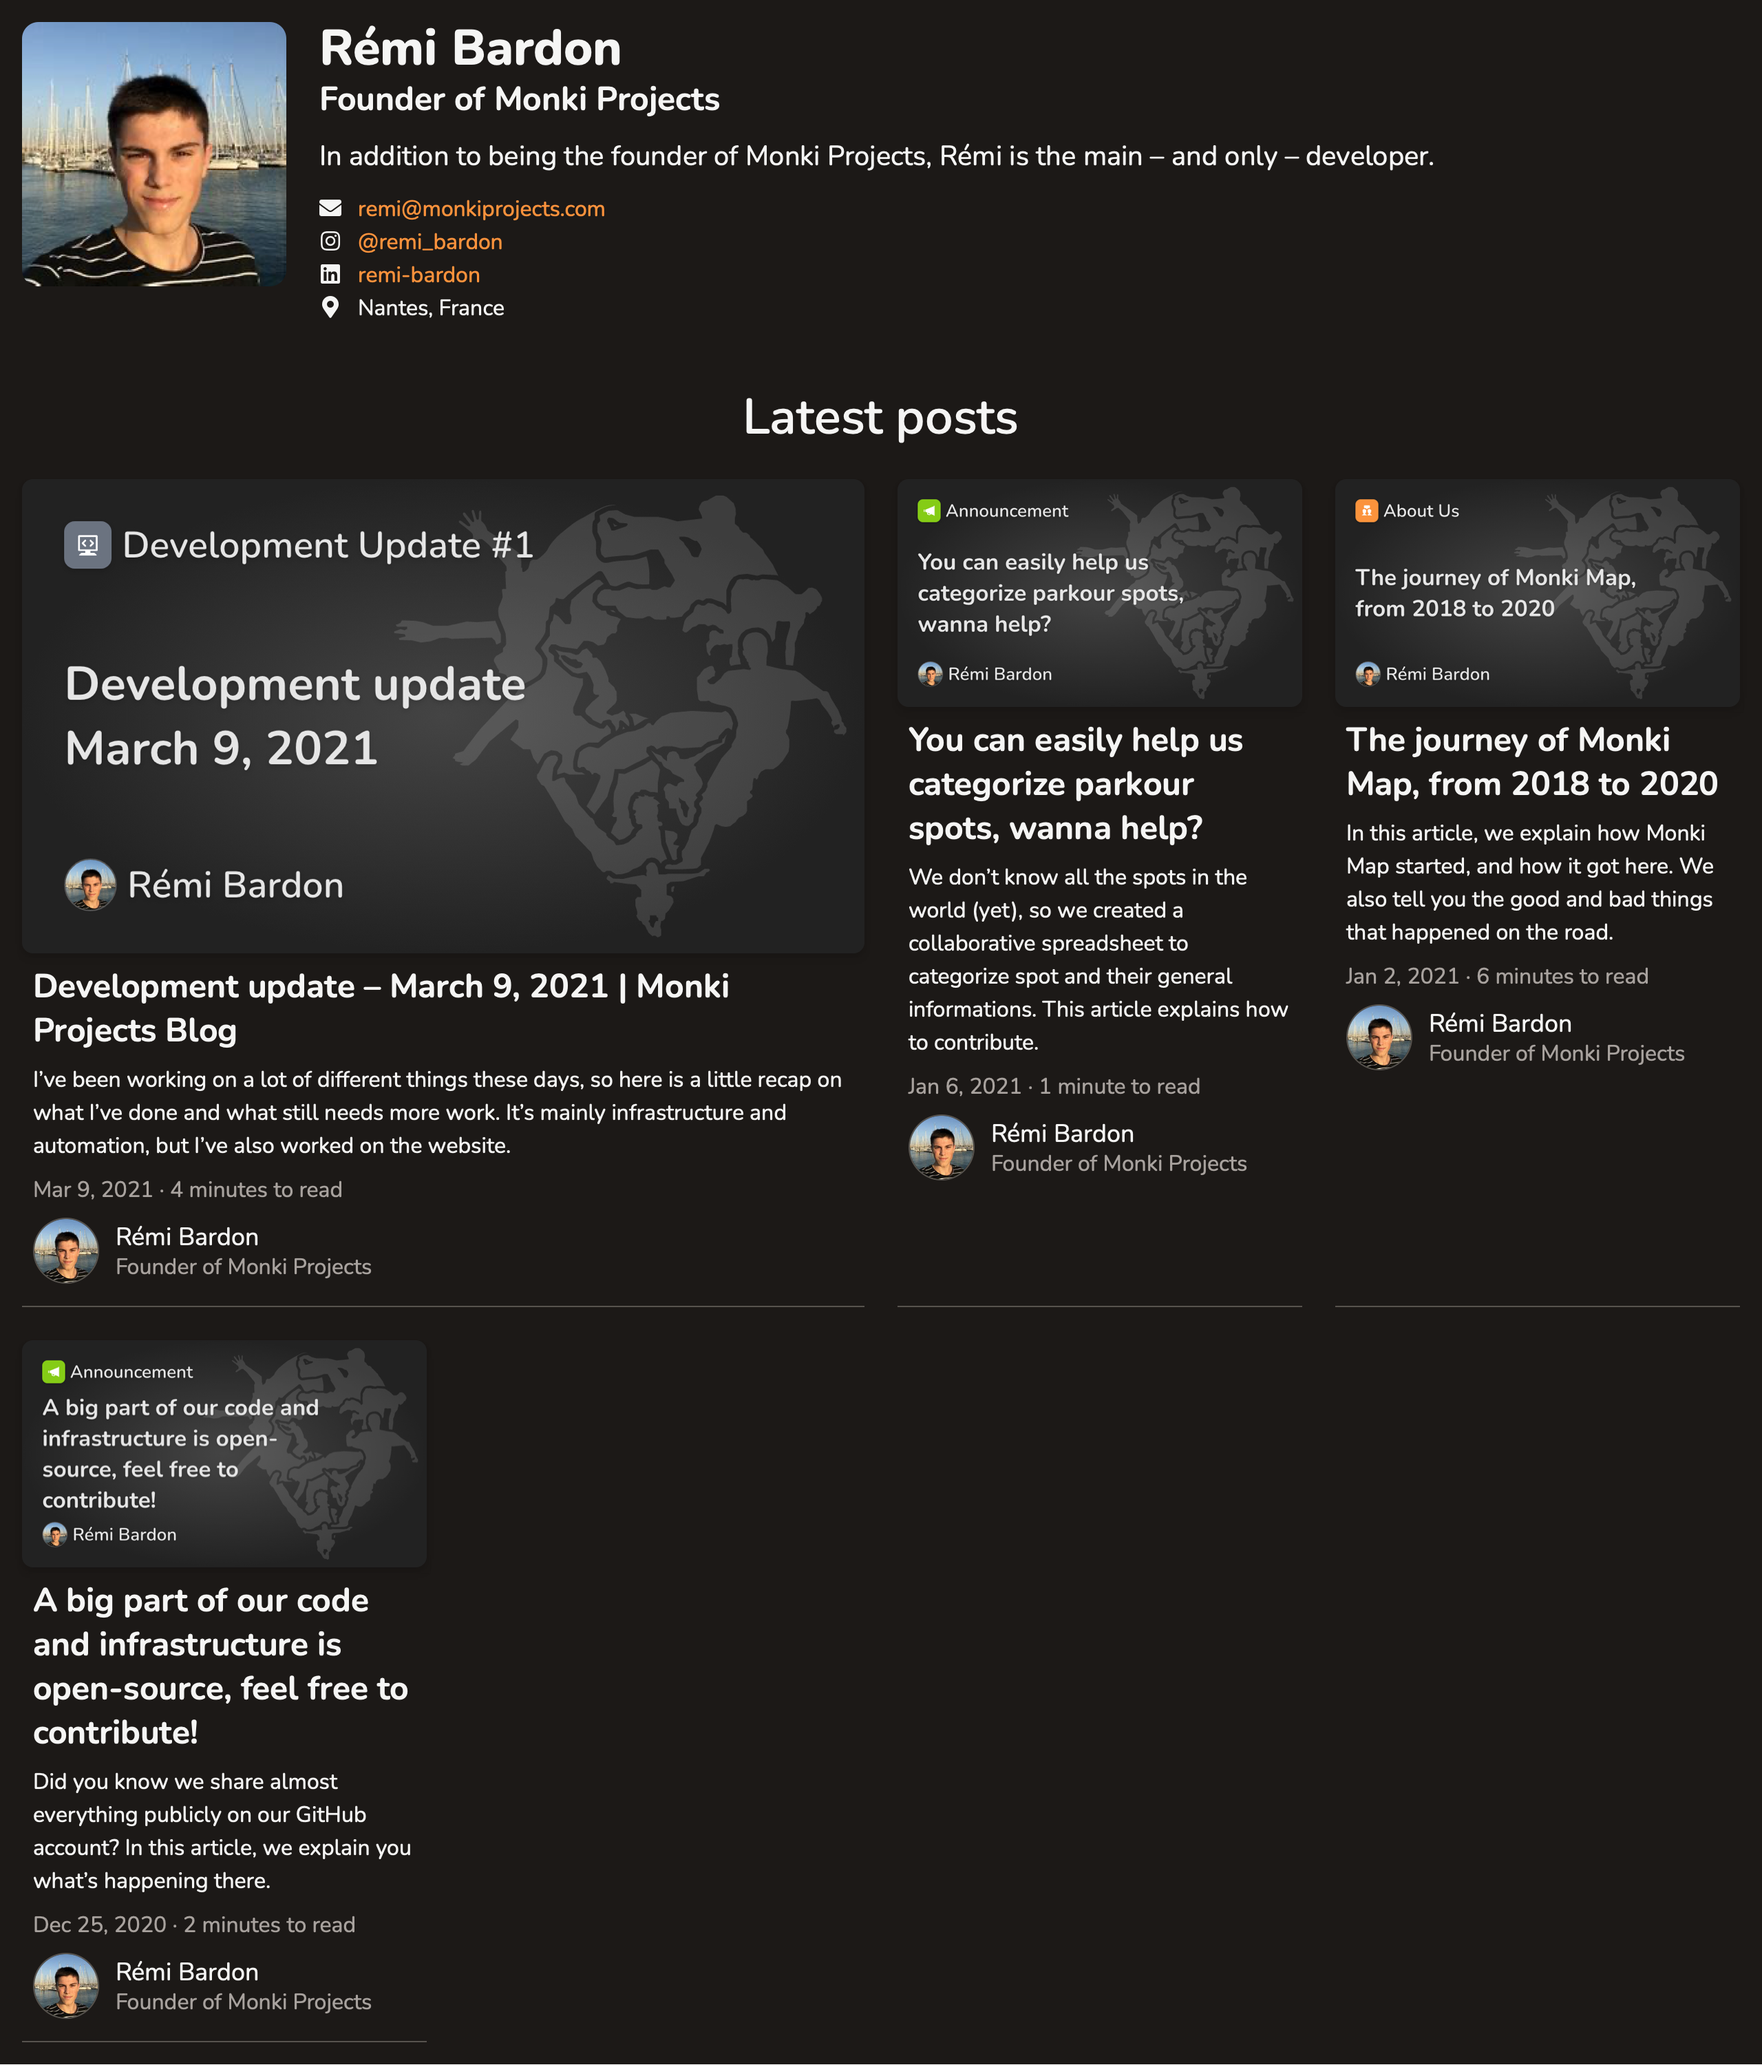
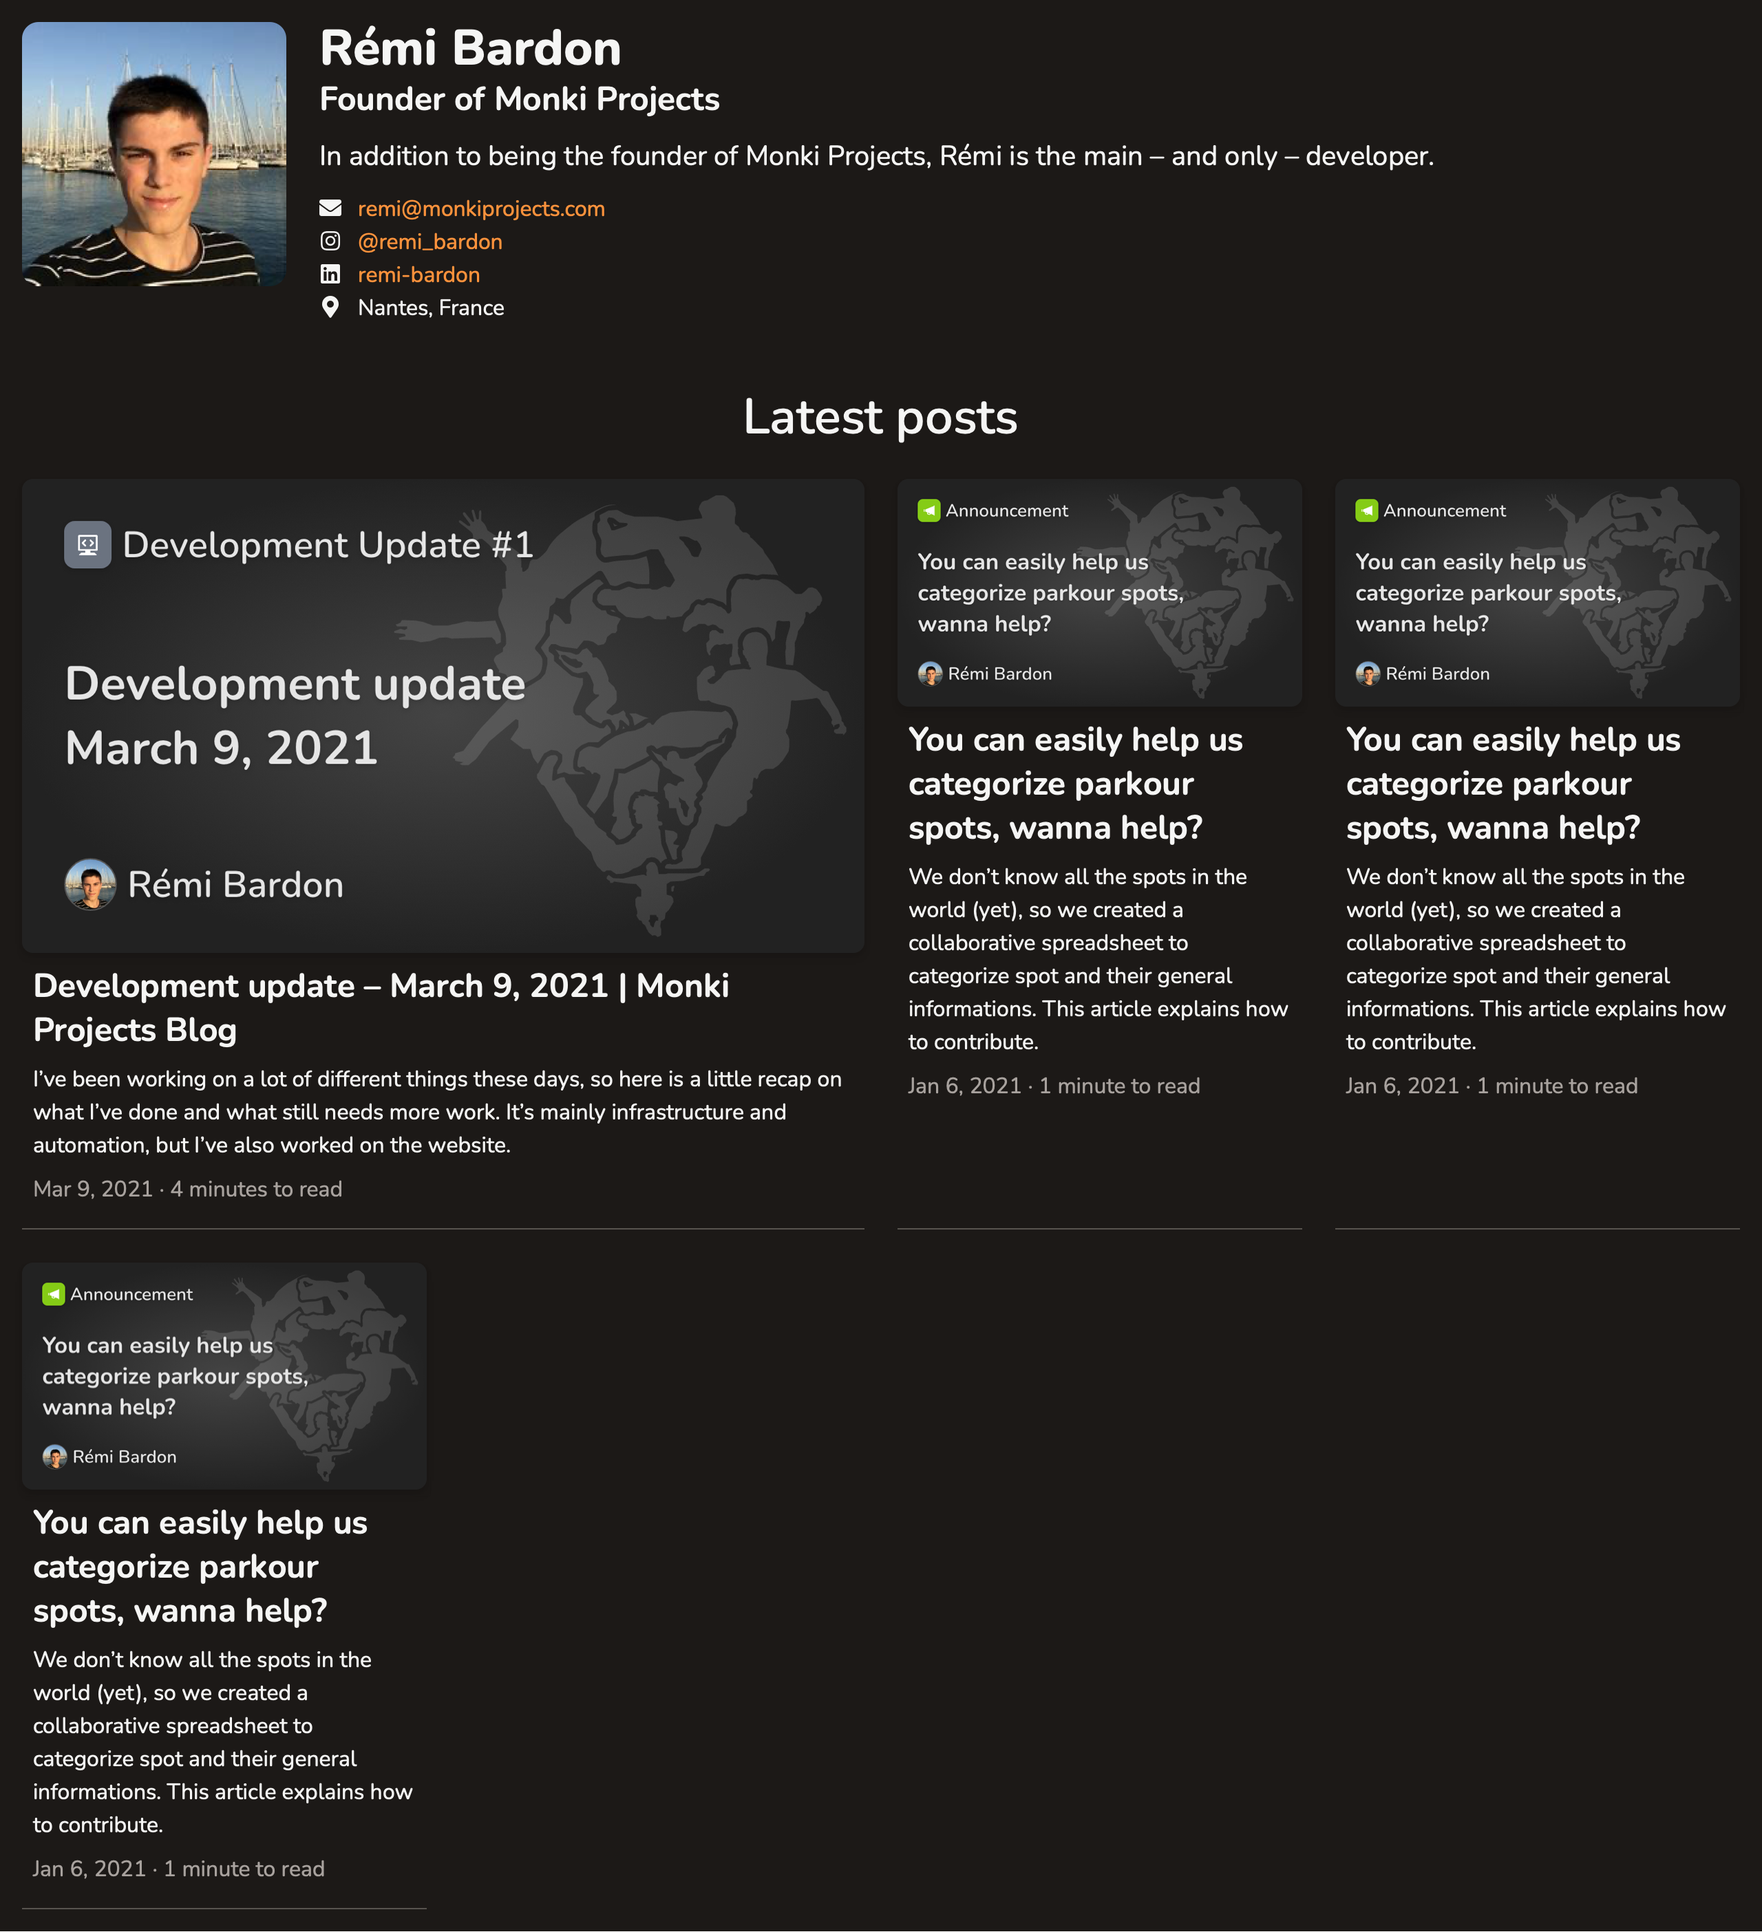
Remove author from blog posts list on author page

Changed region(s): [[0.0, 0.1859, 0.9688, 0.6197], [0.0, 0.6506, 0.25, 0.9915], [0.0, 0.0, 0.8125, 0.1859]]

diff --git a/content/french/blog/notre-nouveau-site-avec-mode-sombre.md b/content/french/blog/notre-nouveau-site-avec-mode-sombre.md
@@ -275,7 +275,7 @@ Je n'ai jamais aimé la liste des membres de l'équipe. J'ai juste appliqué que
 
 La page d'un(e) membre de l'équipe… rien à dire, elle était juste moche.
 
-Je l'ai refaite, et j'ai ajouté la liste des billets de blog publiés par l'auteur(trice) le cas échéant, car ça a beaucoup de sens 🤷
+Je l'ai refaite, et j'ai ajouté la liste des billets de blog publiés par l'auteur(trice) le cas échéant, car ça a beaucoup de sens 🤷 Notez le fait que les cartes n'affichent pas le nom de l'auteur… puisqu'on sait déjà qui c'est.
 
 {{< figure src="/uploads/articles/english/our-new-website-with-dark-mode/team-member-old.png" title="La page d'un membre de l'équipe avec l'ancienne mise en page (mode clair seulement)" >}}
 <div class="sm:grid grid-cols-2 gap-4">

diff --git a/content/english/blog/our-new-website-with-dark-mode.md b/content/english/blog/our-new-website-with-dark-mode.md
@@ -275,7 +275,7 @@ I never liked the team members list. I just applied a few design rules, and now 
 
 The team member page… nothing to say here, it was just ugly.
 
-I redesigned it, and added the list of posts published by the author when appropriate, because it made a lot of sense 🤷.
+I redesigned it, and added the list of posts published by the author when appropriate, because it made a lot of sense 🤷. See how the cards don't show the author… since we already know who the author is.
 
 {{< figure src="/uploads/articles/english/our-new-website-with-dark-mode/team-member-old.png" title="A member page with the old layout (only in light theme)" >}}
 <div class="sm:grid grid-cols-2 gap-4">
